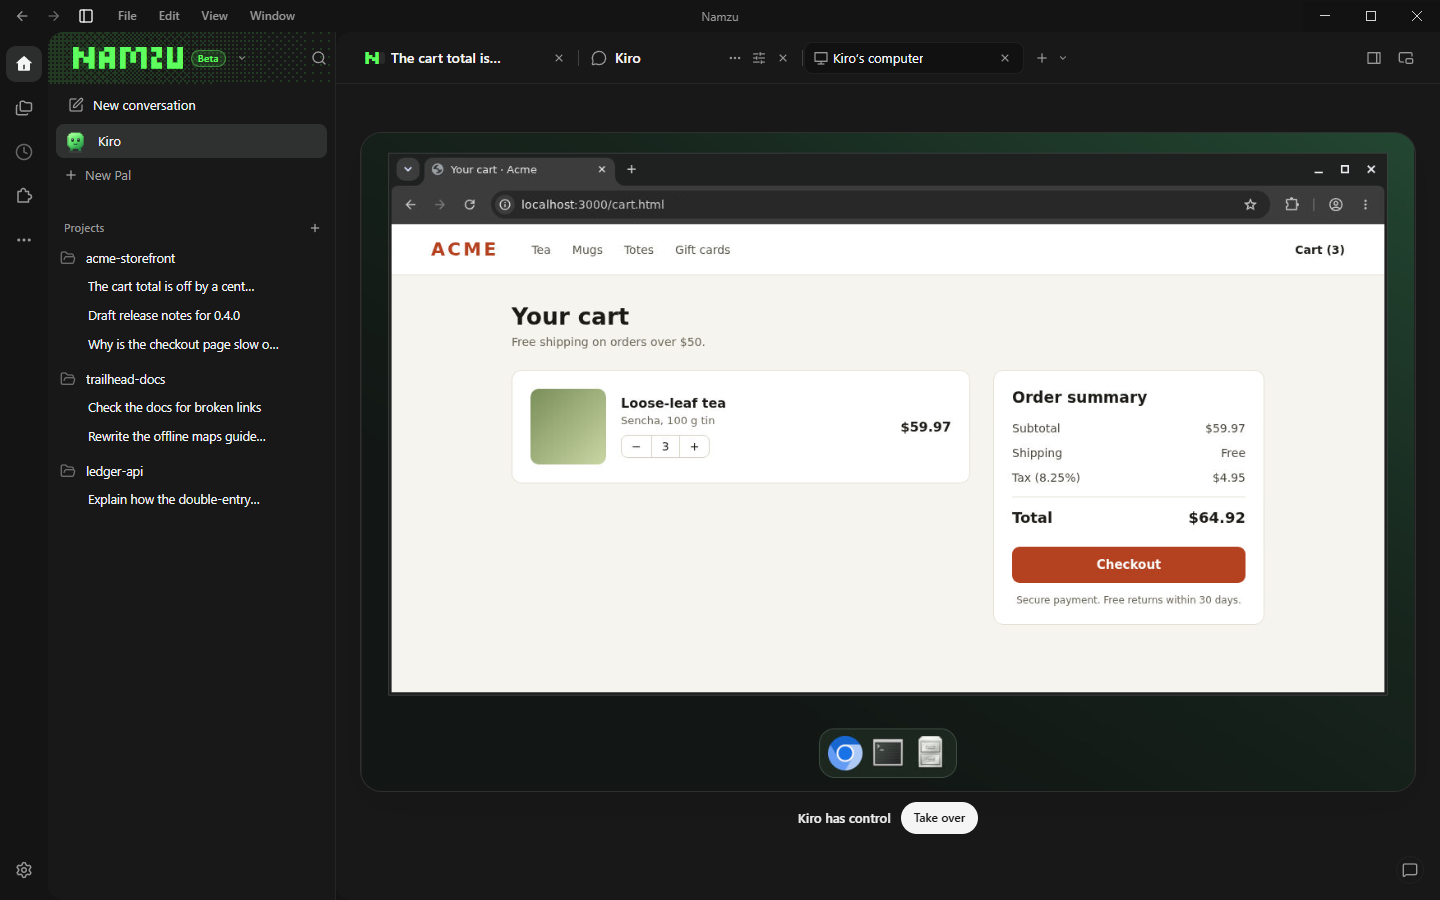
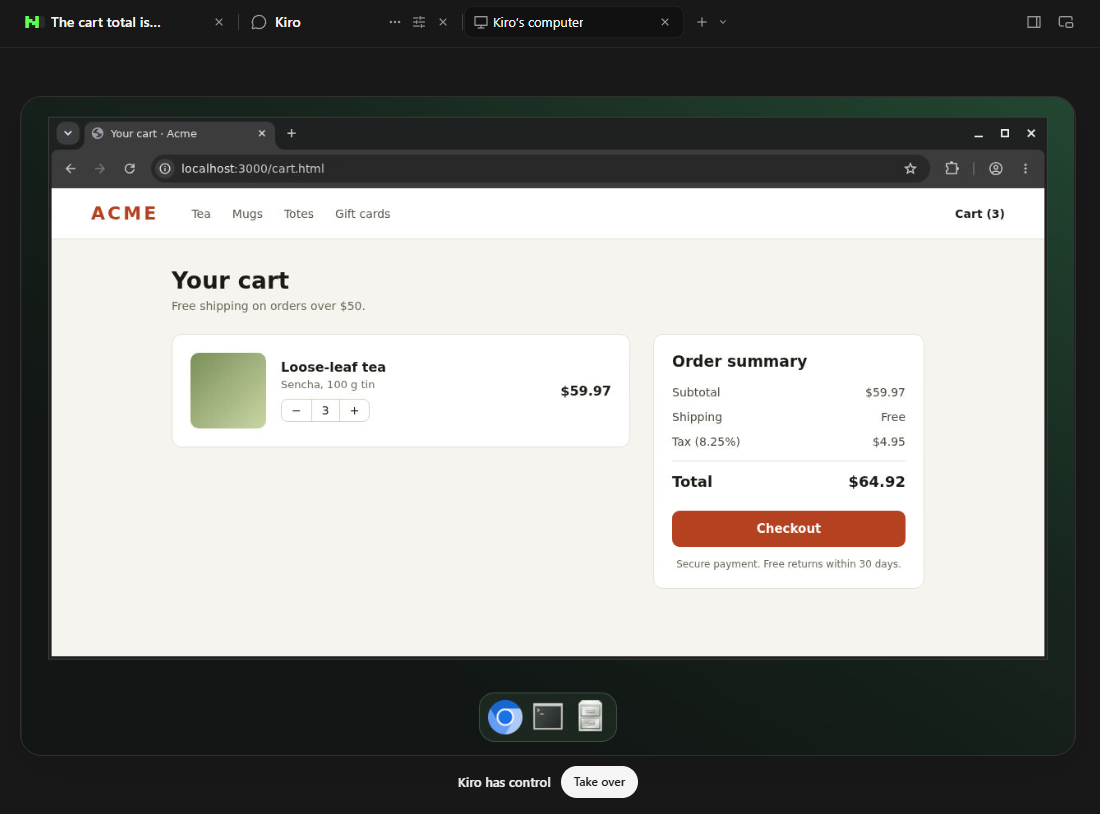
docs(readme): drop the duplicated hero block, crop the Pal computer shot, keep claims to what both apps share

diff --git a/README.md b/README.md
@@ -25,7 +25,7 @@ generated: { by: human:bahadirarda, at: 2026-10-13T00:00:00Z }
 <a href="LICENSE.md"><img alt="License: FSL-1.1-MIT or MIT" src="https://img.shields.io/badge/license-FSL--1.1--MIT%20%7C%20MIT-blue.svg?style=flat-square"></a>
 <a href="https://www.npmjs.com/package/@namzu/cli"><img alt="npm @namzu/cli" src="https://img.shields.io/npm/v/@namzu/cli.svg?label=%40namzu%2Fcli&style=flat-square"></a>
 <a href="https://www.npmjs.com/package/@namzu/sdk"><img alt="npm @namzu/sdk" src="https://img.shields.io/npm/v/@namzu/sdk.svg?label=%40namzu%2Fsdk&style=flat-square"></a>
-<a href="https://github.com/cogitave/namzu/actions/workflows/ci.yml"><img alt="CI" src="https://github.com/cogitave/namzu/actions/workflows/ci.yml/badge.svg"></a>
+<a href="https://github.com/cogitave/namzu/actions/workflows/ci.yml"><img alt="CI" src="https://img.shields.io/github/actions/workflow/status/cogitave/namzu/ci.yml?branch=main&label=CI&style=flat-square"></a>
 </p>
 
 [Desktop](#what-namzu-desktop-does) · [Terminal](#install-the-terminal-agent) · [Pals](#pals) · [For developers](#for-developers) · [Docs](#docs)
@@ -41,14 +41,14 @@ generated: { by: human:bahadirarda, at: 2026-10-13T00:00:00Z }
   <img alt="Namzu Desktop showing a conversation about a rounding bug, with the changed file beside it" src="docs/assets/desktop-hero-light.png" width="100%">
 </picture>
 
-**Namzu Desktop**: Windows app.<br>**[Download for Windows](https://github.com/cogitave/namzu/releases/tag/desktop-latest)**
+**Namzu Desktop** · Windows<br>**[Download for Windows](https://github.com/cogitave/namzu/releases/tag/desktop-latest)**
 
 </td>
 <td width="50%" valign="top" align="center">
 
 <img alt="Namzu in a terminal asking for approval before it edits a file" src="docs/assets/terminal-hero.png" width="100%">
 
-**Namzu Terminal**: macOS, Linux, WSL, Windows.<br>**[Install the terminal agent](#install-the-terminal-agent)**
+**Namzu Terminal** · macOS, Linux, Windows<br>**[Install the terminal agent](#install-the-terminal-agent)**
 
 </td>
 </tr>
@@ -58,35 +58,7 @@ Namzu keeps its records on your machine, and the terminal agent can keep working
 
 ## What Namzu Desktop does
 
-A Windows app. Conversations, projects, Pals and approvals in windows of their own.
-
-<picture>
-  <source media="(prefers-color-scheme: dark)" srcset="docs/assets/desktop-hero-dark.png">
-  <img alt="Namzu Desktop showing a conversation about a rounding bug, with the changed file beside it" src="docs/assets/desktop-hero-light.png" width="100%">
-</picture>
-
-**[Download for Windows](https://github.com/cogitave/namzu/releases/tag/desktop-latest)**
-
-</td>
-<td width="50%" valign="top" align="center">
-
-### Namzu in your terminal
-
-macOS, Linux, WSL and Windows. A coding agent for the project you are in.
-
-<img alt="Namzu in a terminal asking for approval before it edits a file" src="docs/assets/terminal-hero.png" width="100%">
-
-**[Install the terminal agent](#install-the-terminal-agent)**
-
-</td>
-</tr>
-</table>
-
-<p align="center"><sub>Same runtime in both. Desktop is an unsigned preview for Windows today; everywhere else, start with the terminal agent.</sub></p>
-
-## What Namzu Desktop does
-
-Namzu Desktop puts your conversations, projects, Pals (named agents, see below), terminal tabs and approvals in windows of their own. It runs on the same runtime as the terminal agent, so folder trust, model choice and background work behave the same in both.
+Namzu Desktop puts your conversations, projects, Pals (named agents, see below), terminal tabs and approvals in windows of their own. It runs on the same runtime as the terminal agent, so folder trust, model choice and approvals behave the same in both.
 
 <picture>
   <source media="(prefers-color-scheme: dark)" srcset="docs/assets/desktop-approval-dark.png">
